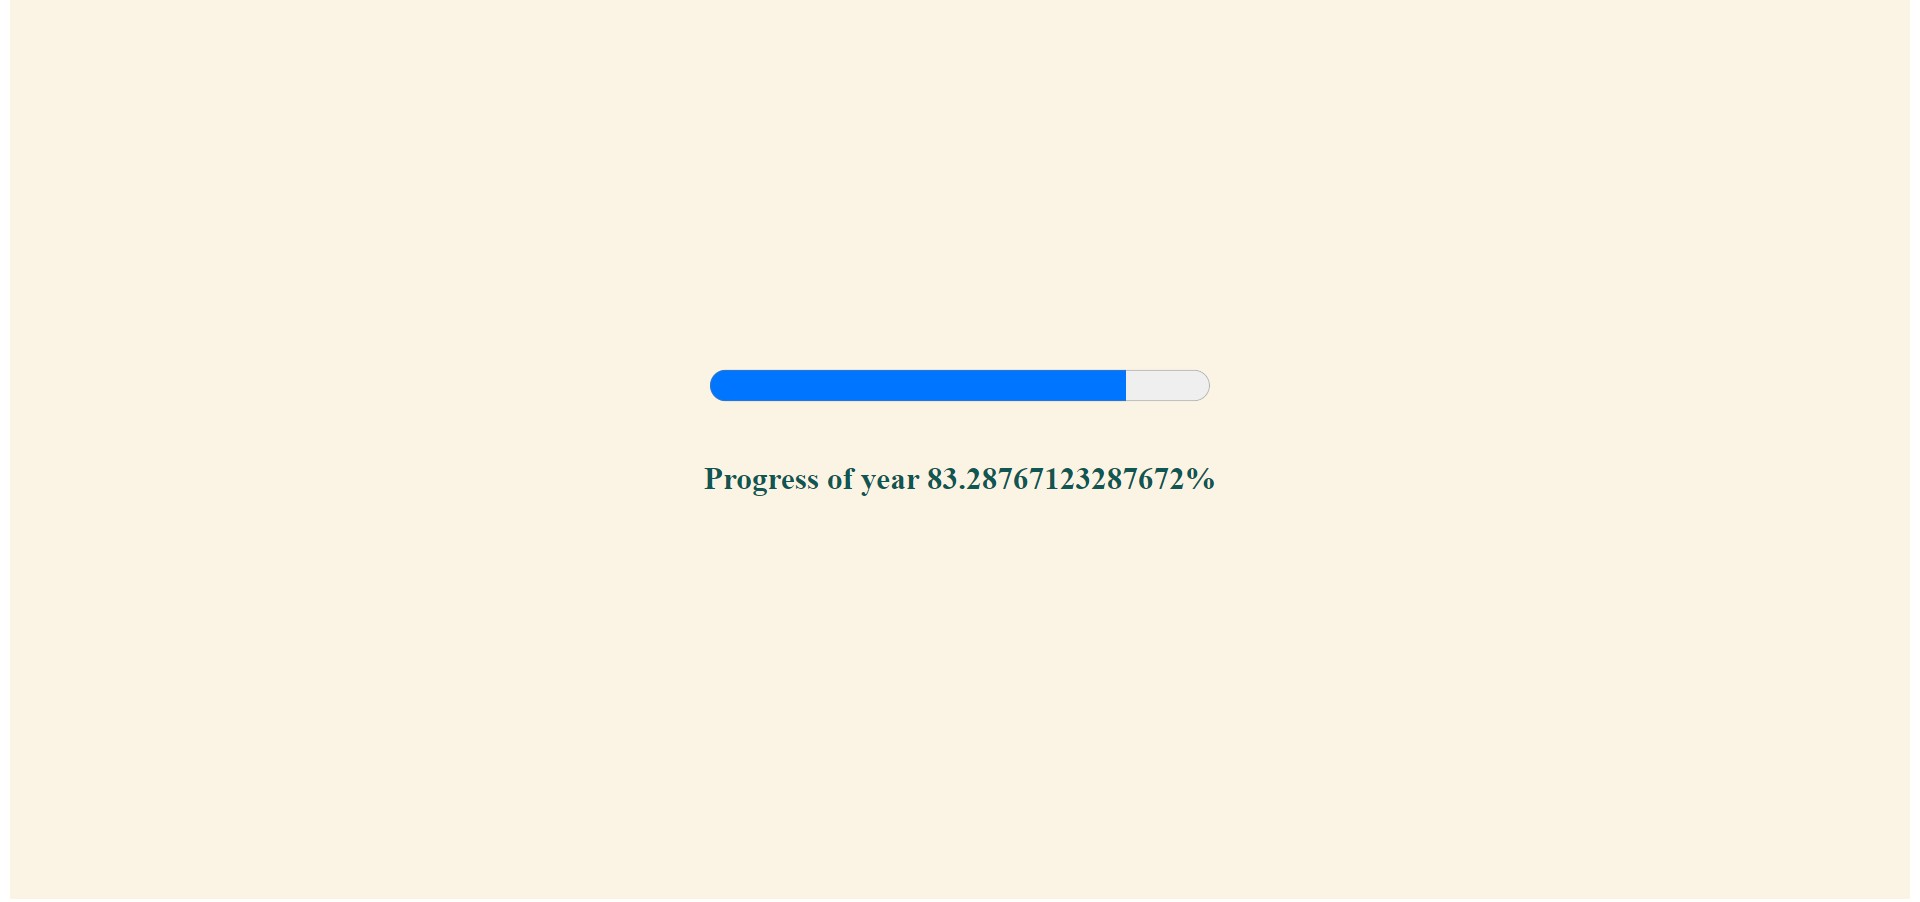
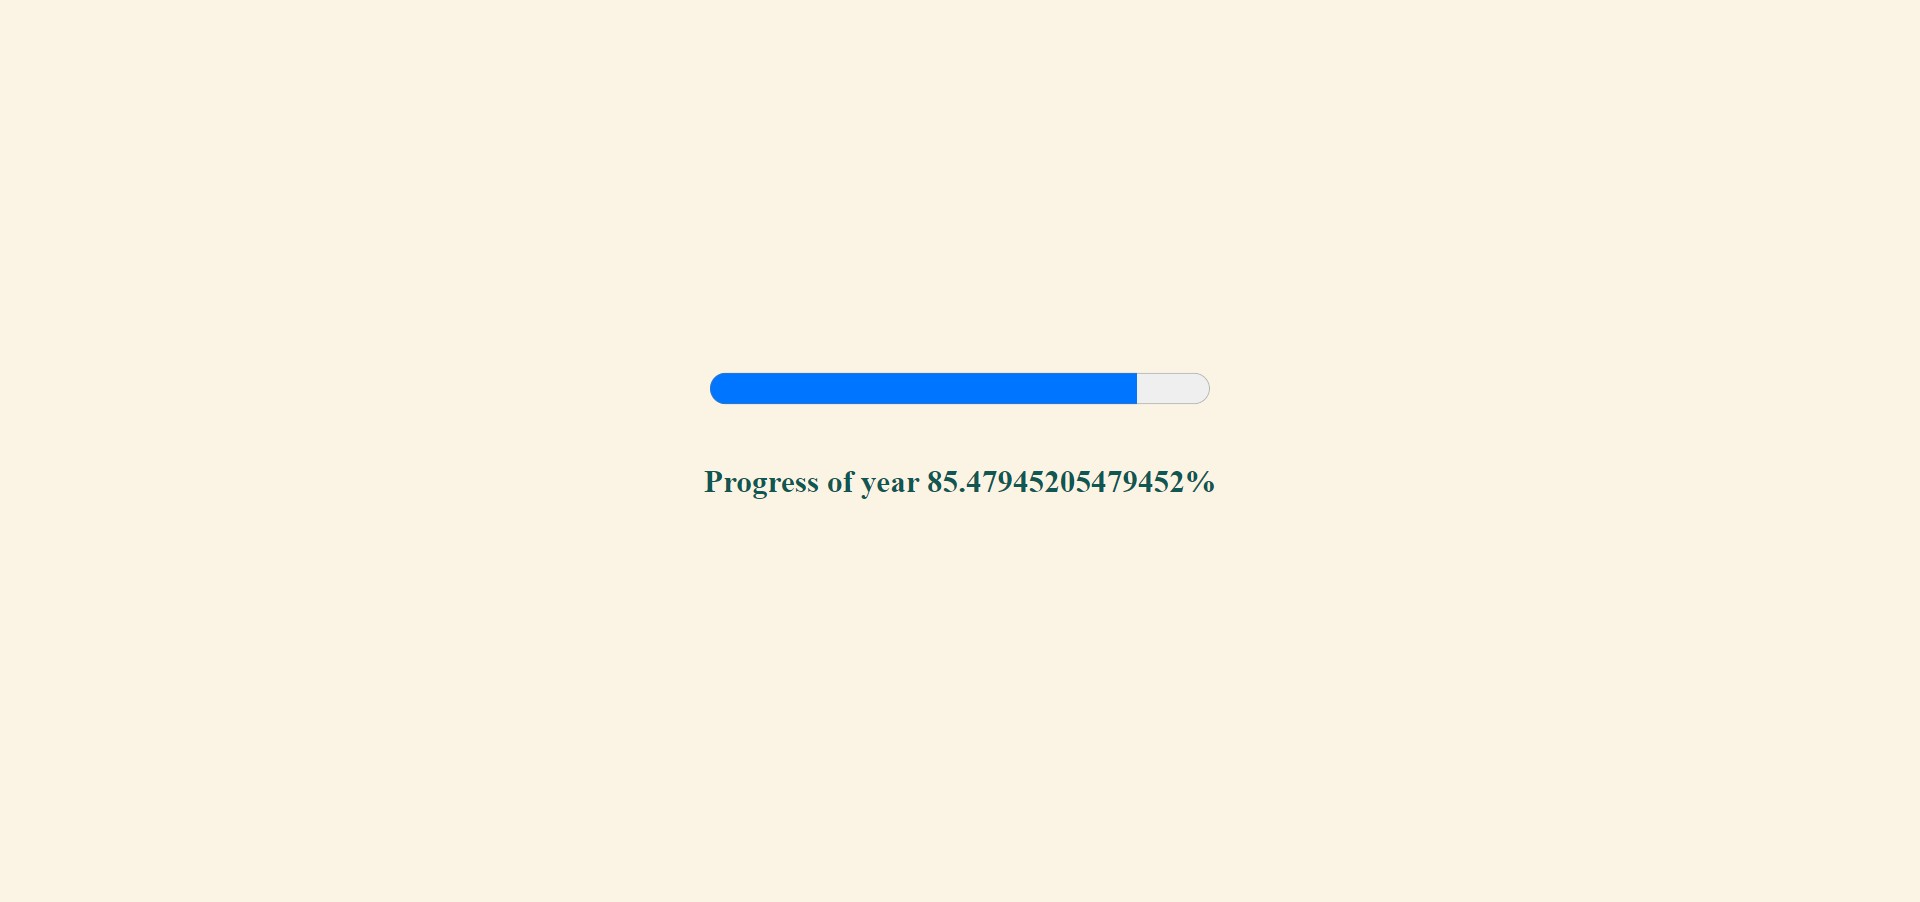
Adds GlobalStyles

Changed region(s): [[0.0, 0.0, 1.0, 1.0], [0.375, 0.4035, 0.5938, 0.4656], [0.375, 0.4967, 0.625, 0.5588]]

diff --git a/public/index.html b/public/index.html
@@ -2,29 +2,15 @@
 <html lang="en">
   <head>
     <meta charset="utf-8" />
-    <link rel="icon" href="%PUBLIC_URL%/favicon.ico" />
+
     <meta name="viewport" content="width=device-width, initial-scale=1" />
-    <meta name="theme-color" content="#000000" />
+
     <meta
       name="description"
       content="Web site created using create-react-app"
     />
-    <link rel="apple-touch-icon" href="%PUBLIC_URL%/logo192.png" />
-    <!--
-      manifest.json provides metadata used when your web app is installed on a
-      user's mobile device or desktop. See https://developers.google.com/web/fundamentals/web-app-manifest/
-    -->
-    <link rel="manifest" href="%PUBLIC_URL%/manifest.json" />
-    <!--
-      Notice the use of %PUBLIC_URL% in the tags above.
-      It will be replaced with the URL of the `public` folder during the build.
-      Only files inside the `public` folder can be referenced from the HTML.
 
-      Unlike "/favicon.ico" or "favicon.ico", "%PUBLIC_URL%/favicon.ico" will
-      work correctly both with client-side routing and a non-root public URL.
-      Learn how to configure a non-root public URL by running `npm run build`.
-    -->
-    <title>React App</title>
+    <link rel="manifest" href="%PUBLIC_URL%/manifest.json" />
   </head>
   <body>
     <noscript>You need to enable JavaScript to run this app.</noscript>

diff --git a/src/App.js b/src/App.js
@@ -1,5 +1,6 @@
 import { getDayOfYear, getDaysInYear } from "date-fns";
 import ProgressBar from "./components/ProgressBar";
+import GlobalStyle from "./GlobalStyles";
 import styled from "styled-components";
 
 const Wrapper = styled.div`
@@ -34,6 +35,7 @@ function App() {
 
   return (
     <Wrapper>
+      <GlobalStyle />
       <ProgressBar value={percentage} max={100} />
       <Title>Progress of year {percentage}%</Title>
     </Wrapper>

diff --git a/src/GlobalStyles.js b/src/GlobalStyles.js
@@ -1,0 +1,14 @@
+import { createGlobalStyle } from "styled-components";
+
+const GlobalStyle = createGlobalStyle`
+body{
+    margin:0;
+    padding:0;
+}
+*,
+*:before,
+*:after{
+    box-sizing: border-box;
+}
+`;
+export default GlobalStyle;
